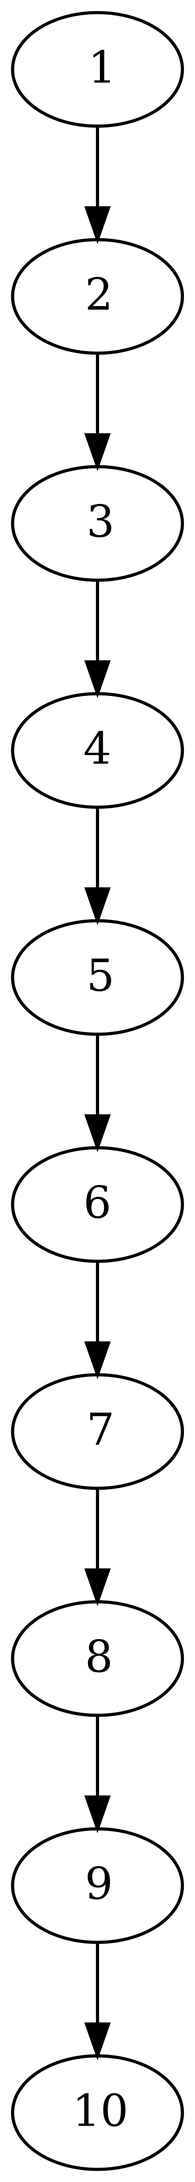
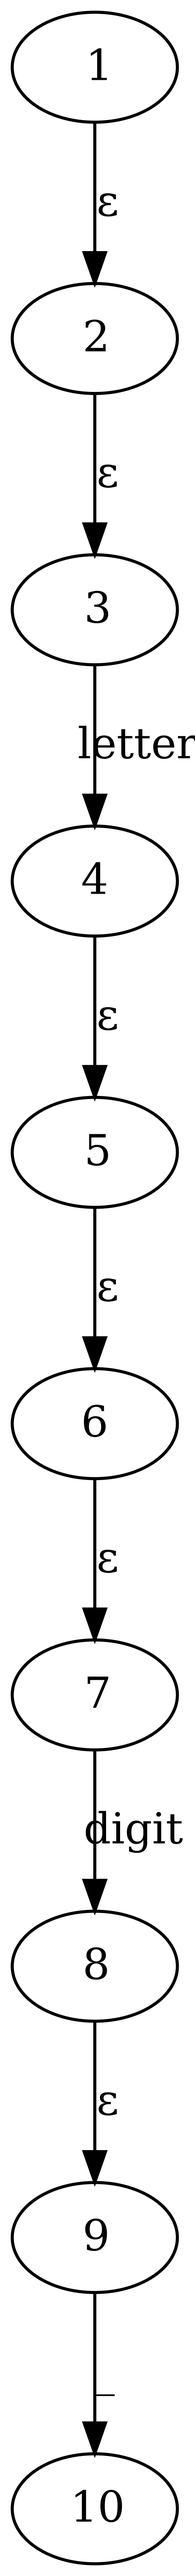
The labels are drawn but the graph looks F'ed

diff --git a/src/AutomataVisualizer.java b/src/AutomataVisualizer.java
@@ -1,4 +1,5 @@
 import guru.nidi.graphviz.attribute.Color;
+import guru.nidi.graphviz.attribute.Label;
 import guru.nidi.graphviz.engine.Format;
 import guru.nidi.graphviz.engine.Graphviz;
 import guru.nidi.graphviz.model.MutableGraph;
@@ -45,8 +46,7 @@ public class AutomataVisualizer {
                 StateNodePair childPair = new StateNodePair(childState, childNode);
 
                 // draw edge
-                // todo: use label
-                curPair.node.addLink(childPair.node);
+                curPair.node.addLink(to(childPair.node).with(Label.of(label)));
 
                 // add the child to the stack
                 if (!seen.containsKey(childState)) {
